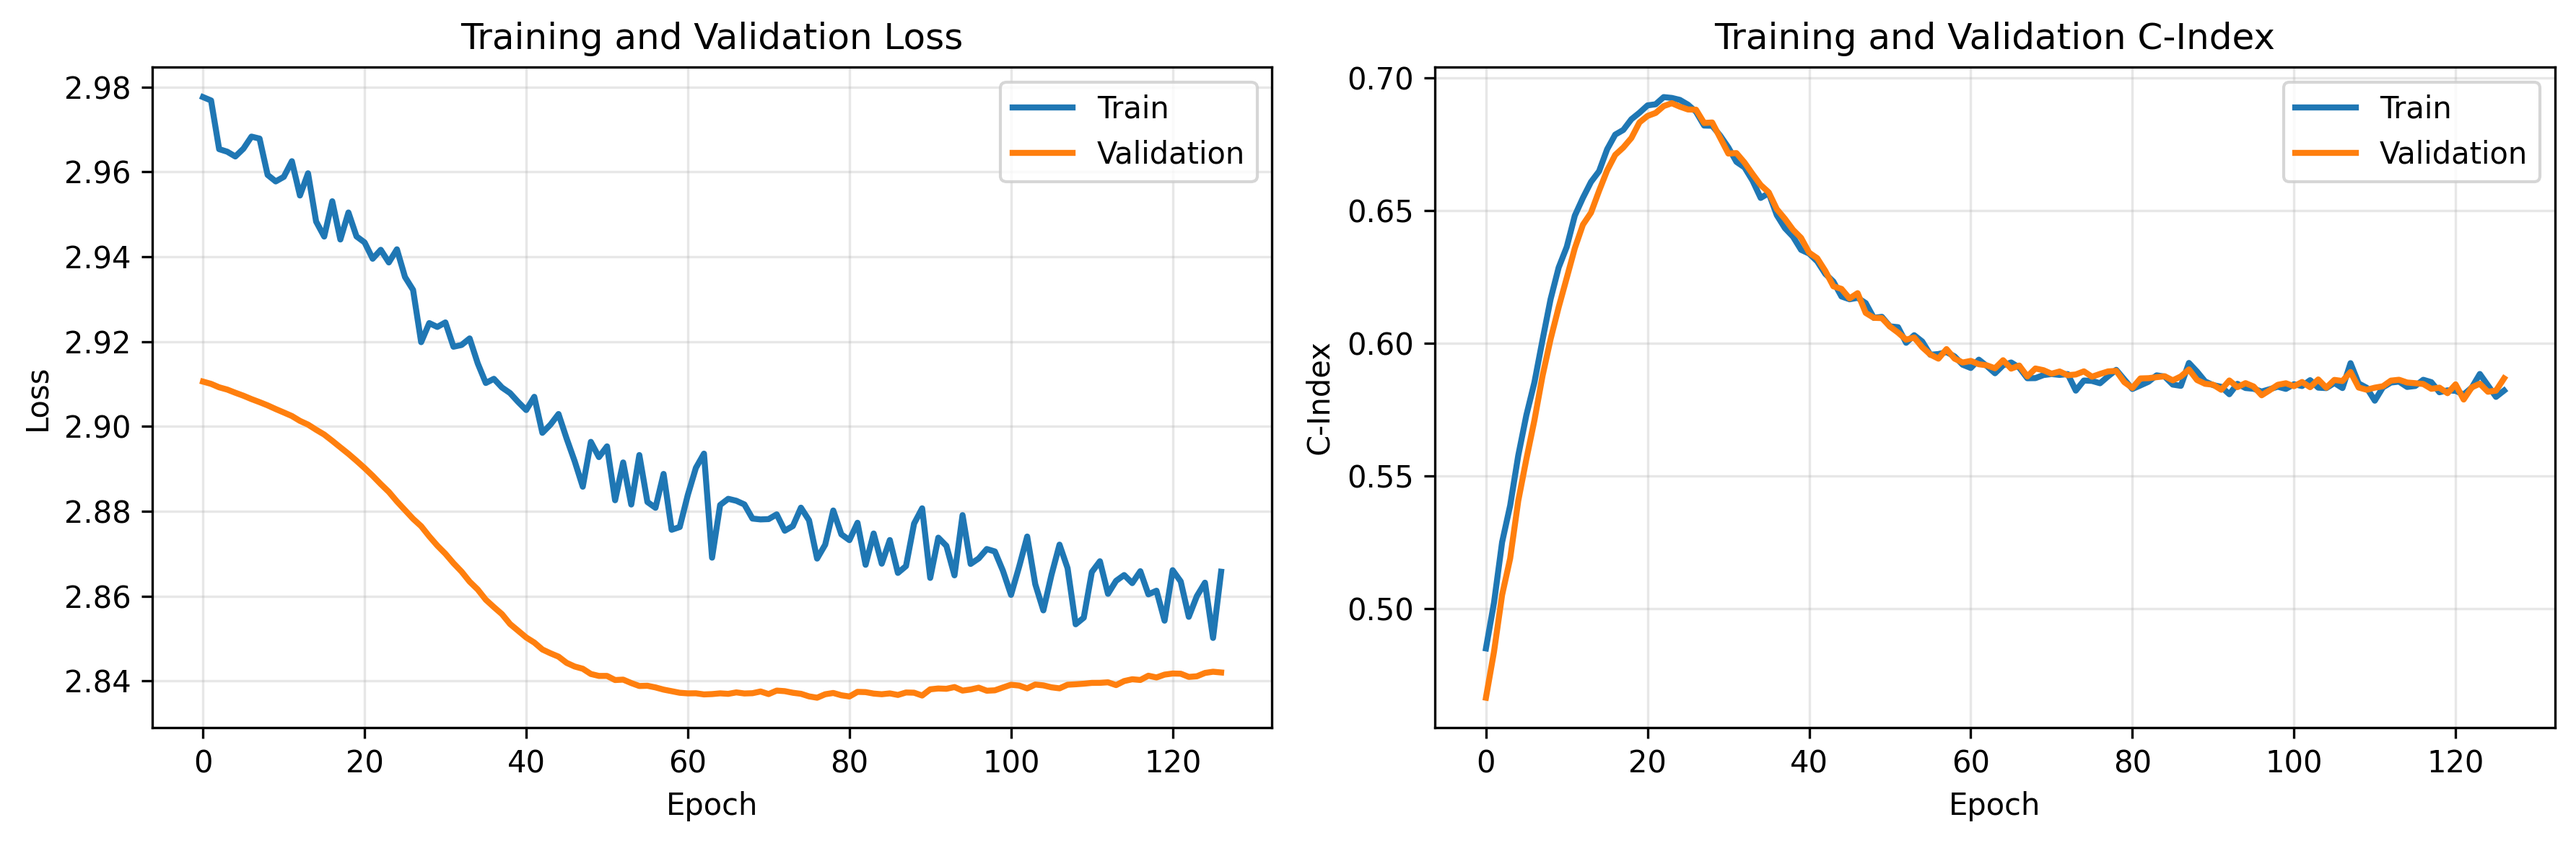
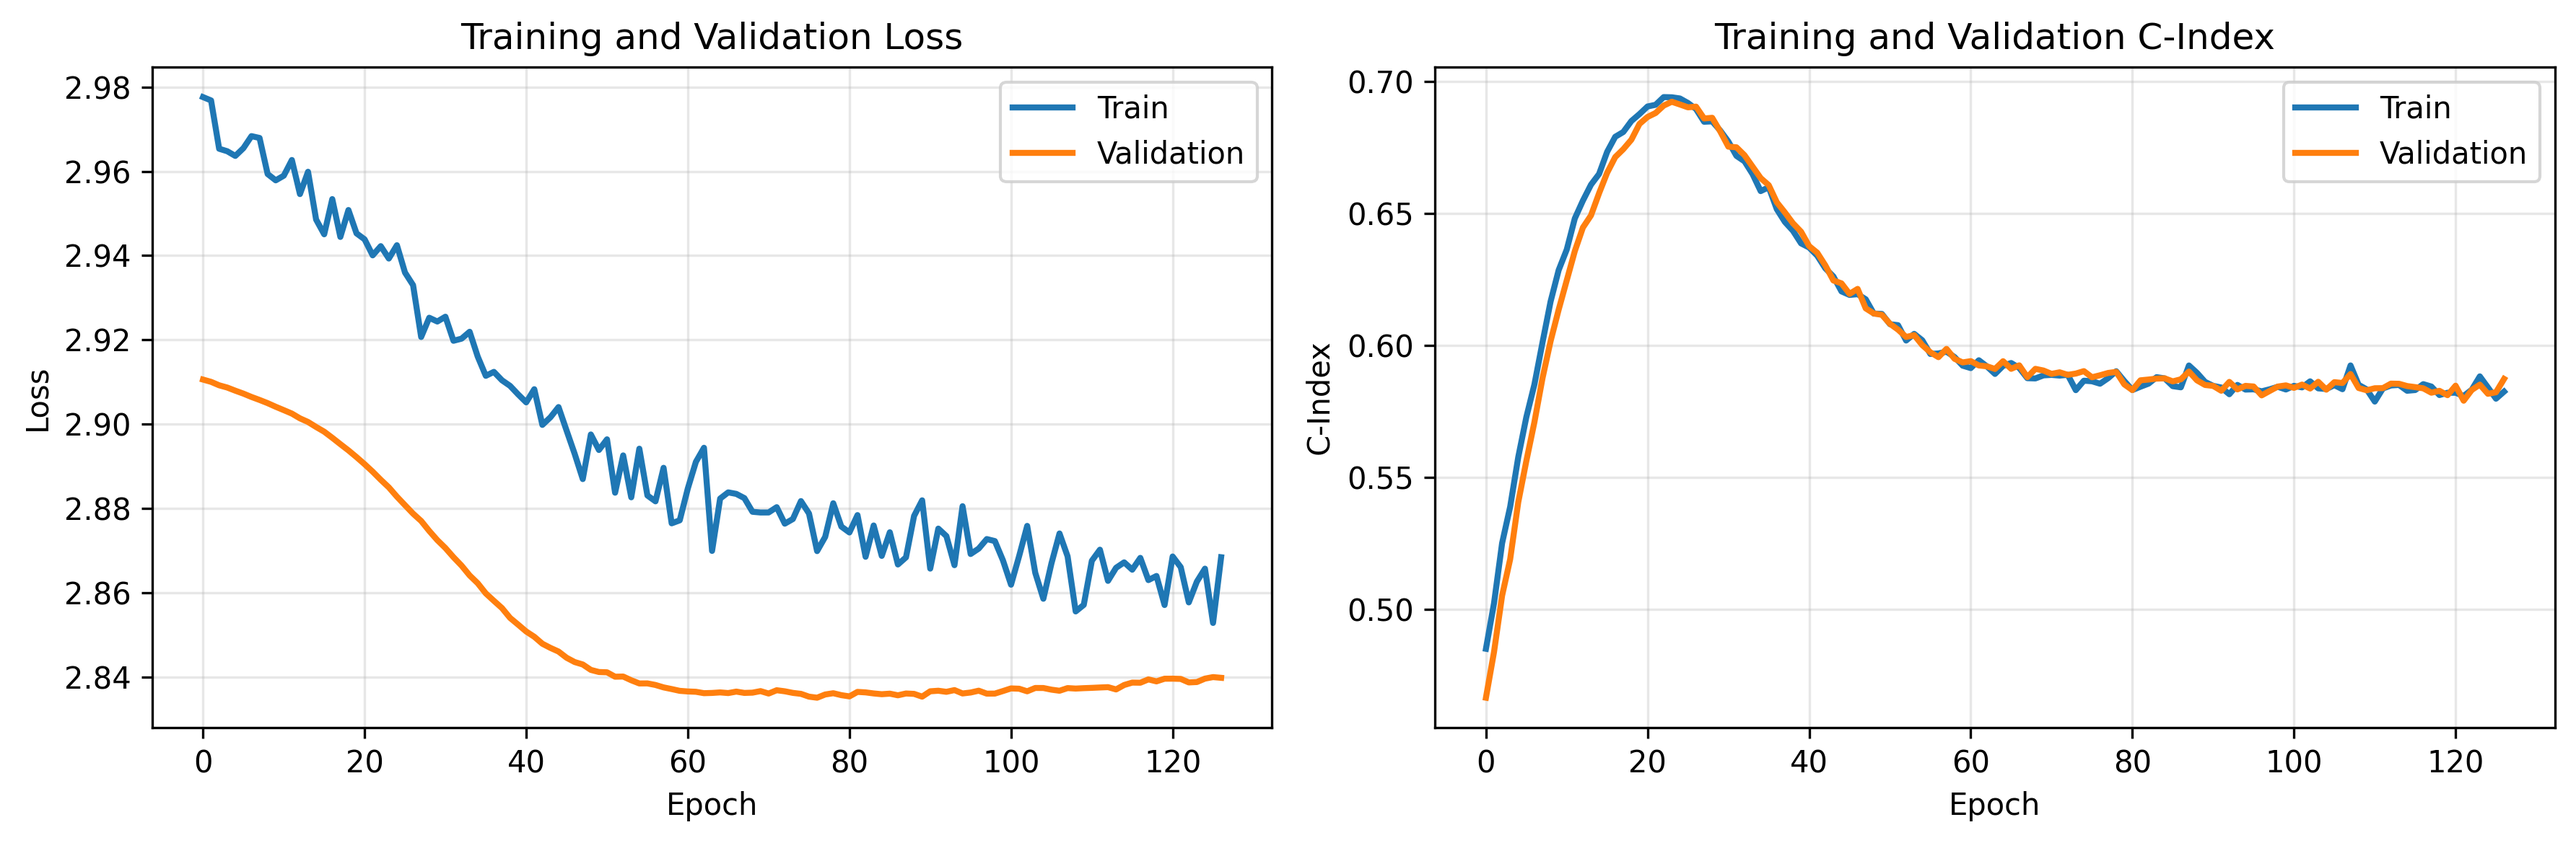
update

diff --git a/phase1_vanilla/src/config.py b/phase1_vanilla/src/config.py
@@ -30,10 +30,10 @@ MODEL_CONFIG = {
 # Training Parameters (Vanilla with PyTorch adjustments)
 TRAINING_CONFIG = {
     'optimizer': 'sgd',
-    'learning_rate': 1e-3,  # Adjusted from 1e-4 for PyTorch
+    'learning_rate': 5e-3,  # Increased for better convergence
     'lr_decay': 0.001,
     'momentum': 0.9,
-    'l2_reg': 0.01,  # Adjusted from 10.0 for PyTorch (empirically validated)
+    'l2_reg': 0.0,  # No regularization - let model learn signal fully
     'l1_reg': 0.0,
     'batch_size': 64,
     'max_epochs': 500,
